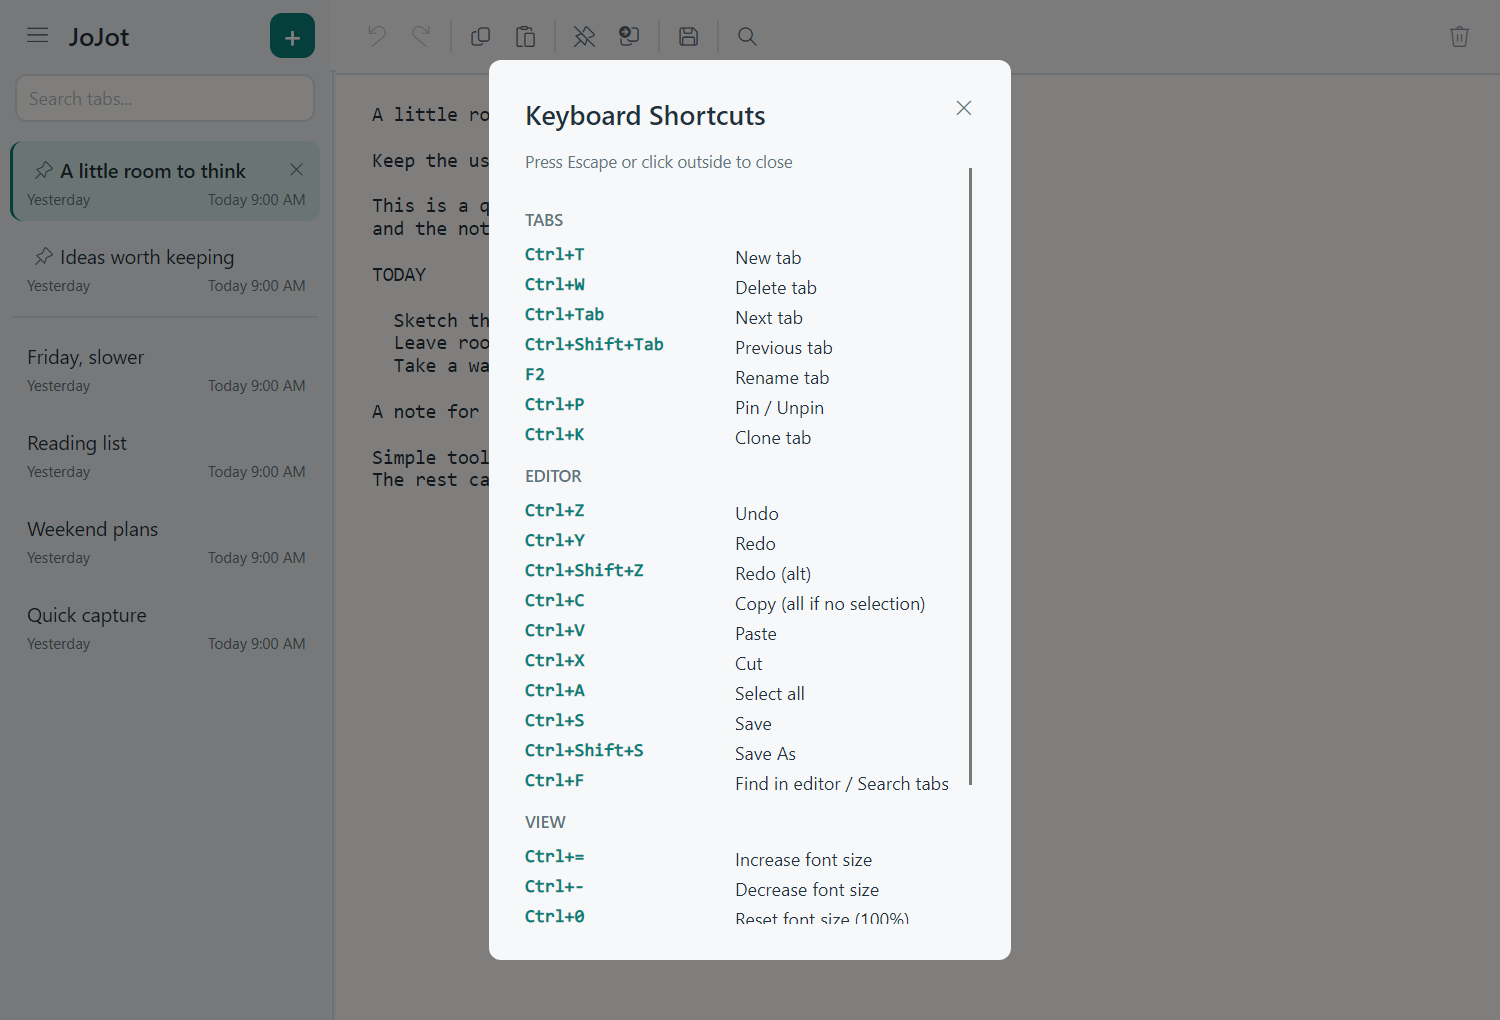
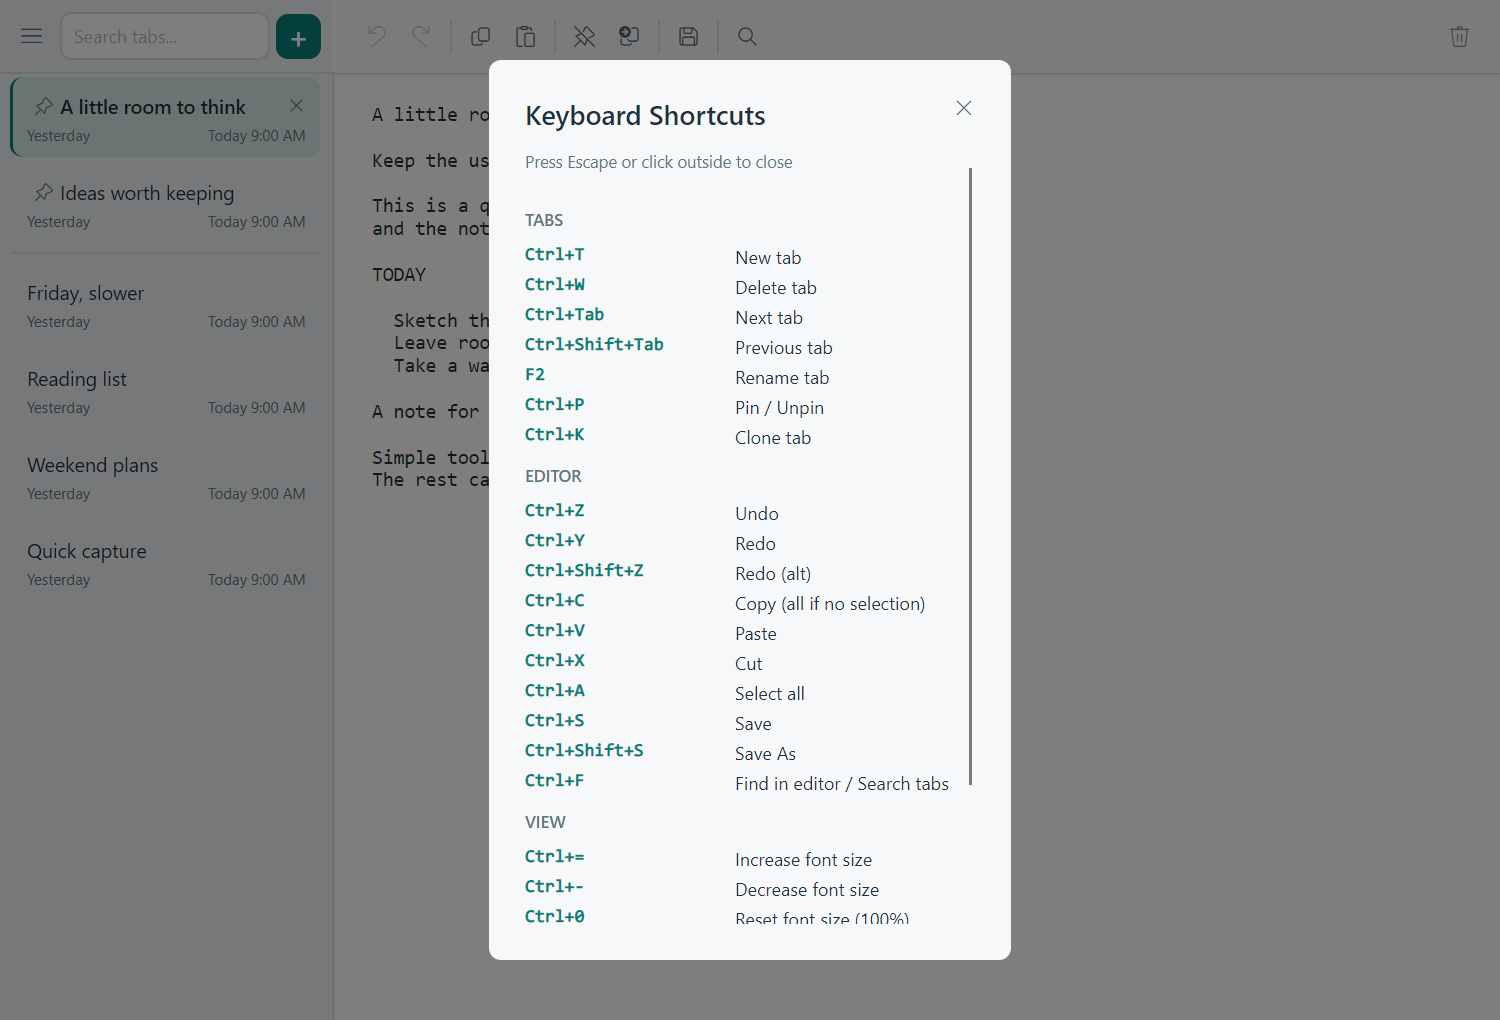
Keep refreshed sidebar controls in one row

diff --git a/experiments/results/visual-refresh/index.html b/experiments/results/visual-refresh/index.html
@@ -6,7 +6,7 @@
 *{box-sizing:border-box}body{font:16px/1.5 system-ui,sans-serif;margin:32px;background:var(--bg);color:var(--fg)}main{max-width:1800px;margin:auto}h1{font-size:30px;letter-spacing:-.6px;margin-bottom:4px}p{color:var(--muted);max-width:850px}.pair{display:grid;grid-template-columns:1fr 1fr;gap:20px;margin:24px 0 44px}figure{margin:0;background:var(--paper);border:1px solid var(--line);border-radius:12px;overflow:hidden}figcaption{padding:12px 16px;font-weight:600}img{display:block;width:100%;height:auto}.compact{display:grid;grid-template-columns:1fr 1fr 1fr;gap:20px;align-items:start}a{color:var(--accent)}@media(max-width:900px){body{margin:16px}.pair,.compact{grid-template-columns:1fr}}
 </style><main>
 <h1>JoJot, with a little more room to think</h1>
-<p>One implemented experiment: warm paper, slate navigation and a teal accent. Actual application renders, using the same six synthetic notes and 1000 × 680 DIP viewport. Stable reference is a managed build; the refreshed captures are from the final NativeAOT preview. Windows scaling: 150%. Native title-bar chrome is outside these client-area captures.</p>
+<p>One implemented experiment: warm paper, slate navigation and a teal accent, with Menu, Search and New kept inline. Actual application renders, using the same six synthetic notes and 1000 × 680 DIP viewport. Stable reference is a managed build; the refreshed captures are from the final NativeAOT preview. Windows scaling: 150%. Native title-bar chrome is outside these client-area captures.</p>
 <div class="pair"><figure><figcaption>Stable · Light</figcaption><img src="before/main-light.png" alt="Stable light theme"></figure><figure><figcaption>Refresh · Light</figcaption><img src="after/main-light.png" alt="Refreshed light theme"></figure></div>
 <div class="pair"><figure><figcaption>Stable · Dark</figcaption><img src="before/main-dark.png" alt="Stable dark theme"></figure><figure><figcaption>Refresh · Dark</figcaption><img src="after/main-dark.png" alt="Refreshed dark theme"></figure></div>
 <div class="pair"><figure><figcaption>Stable · Find</figcaption><img src="before/find.png" alt="Stable Find panel"></figure><figure><figcaption>Refresh · Find</figcaption><img src="after/find.png" alt="Refreshed Find panel"></figure></div>

diff --git a/experiments/JoJot.Avalonia/MainWindow.VisualProbe.cs b/experiments/JoJot.Avalonia/MainWindow.VisualProbe.cs
@@ -126,6 +126,17 @@ public sealed partial class MainWindow
     private async Task CaptureWindowAsync(string directory, string filename)
     {
         await Dispatcher.UIThread.InvokeAsync(() => { }, DispatcherPriority.Background);
+        var sidebarControls = new Control[] { HamburgerButton, SearchBox, AddButton };
+        var sidebarBounds = sidebarControls.Select(control =>
+            new Rect(control.TranslatePoint(default, this)!.Value, control.Bounds.Size)).ToArray();
+        for (var index = 0; index < sidebarBounds.Length; index++)
+        {
+            if (sidebarBounds[index].Width <= 0 || sidebarBounds[index].Bottom > NoteList.TranslatePoint(default, this)!.Value.Y)
+                throw new InvalidOperationException($"Sidebar header is clipped in {filename}.");
+            if (index > 0 && (sidebarBounds[index - 1].Right + 3 > sidebarBounds[index].Left ||
+                Math.Abs(sidebarBounds[index - 1].Center.Y - sidebarBounds[index].Center.Y) > 1))
+                throw new InvalidOperationException($"Sidebar header is not inline in {filename}.");
+        }
         var toolbarButtons = new[] { UndoButton, RedoButton, CopyButton, PasteButton, PinButton,
             CloneButton, SaveButton, SaveAsButton, FindButton, DeleteButton }.Where(button => button.IsVisible).ToArray();
         var rectangles = toolbarButtons.Select(button =>

diff --git a/experiments/JoJot.Avalonia.Tests/MainWindowTests.cs b/experiments/JoJot.Avalonia.Tests/MainWindowTests.cs
@@ -469,6 +469,15 @@ public sealed class MainWindowTests
         var toolbar = Find<Border>(window, "EditorToolbar");
         var splitter = Find<GridSplitter>(window, "TabSplitter");
         var search = Find<TextBox>(window, "SearchBox");
+        var menu = Find<Button>(window, "HamburgerButton");
+        var add = Find<Button>(window, "AddButton");
+        var menuOrigin = menu.TranslatePoint(default, window)!.Value;
+        var searchOrigin = search.TranslatePoint(default, window)!.Value;
+        var addOrigin = add.TranslatePoint(default, window)!.Value;
+        Assert.True(menuOrigin.X + menu.Bounds.Width + 4 <= searchOrigin.X);
+        Assert.True(searchOrigin.X + search.Bounds.Width + 4 <= addOrigin.X);
+        Assert.Equal(menuOrigin.Y + menu.Bounds.Height / 2, searchOrigin.Y + search.Bounds.Height / 2);
+        Assert.Equal(addOrigin.Y + add.Bounds.Height / 2, searchOrigin.Y + search.Bounds.Height / 2);
         var searchBottom = search.TranslatePoint(new Point(0, search.Bounds.Height), window)!.Value.Y;
         Assert.True(searchBottom + 8 <= list.TranslatePoint(default, window)!.Value.Y);
         Assert.Equal(toolbar.Bounds.Height, editor.TranslatePoint(default, window)!.Value.Y);

diff --git a/experiments/results/visual-refresh/README.md b/experiments/results/visual-refresh/README.md
@@ -1,12 +1,12 @@
 # Visual refresh experiment
 
-Branch: `features/avalonia-visual-refresh`, based on stable main `c5d7f77051ff1ff7b6a1aa85fbd0e44422b149c1`. No commit or push performed for this experiment.
+Branch: `features/avalonia-visual-refresh`, based on stable main `c5d7f77051ff1ff7b6a1aa85fbd0e44422b149c1`. The inline-header correction is uncommitted.
 
-Open [the side-by-side gallery](index.html). Run the isolated NativeAOT preview with `P:\projects\JoJot\.local\avalonia-visual-refresh\preview\Try-Visual-Refresh.cmd`.
+Open [the side-by-side gallery](index.html). Run the isolated NativeAOT preview with `P:\projects\JoJot\.local\avalonia-visual-refresh\inline-preview\Try-Visual-Refresh.cmd`.
 
 ## Design
 
-Warm paper for writing, cool slate navigation, restrained teal accents. A distinct JoJot header and prominent add button sit above full-width note search. Selected notes use a rounded surface, accent edge and stronger title weight. Shared controls have consistent rounding and theme-aware selected-state text. The editor gets more breathing room while preserving the existing Consolas/font-size preferences and plain-text content.
+Warm paper for writing, cool slate navigation, restrained teal accents. Menu, Search and New share one compact row, matching the stable layout while retaining the refreshed controls. The redundant JoJot heading is removed. Selected notes use a rounded surface, accent edge and stronger title weight. Shared controls have consistent rounding and theme-aware selected-state text. The editor gets more breathing room while preserving the existing Consolas/font-size preferences and plain-text content.
 
 The default sidebar is 220 DIP (existing saved widths still apply). At narrow window sizes its maximum yields enough room for the editor; the toolbar wraps instead of clipping actions. No schema, storage, file format, shortcuts or workflow handlers changed.
 
@@ -14,7 +14,7 @@ The default sidebar is 220 DIP (existing saved widths still apply). At narrow wi
 
 The gallery compares stable managed and refreshed NativeAOT client-area renders at 1000 × 680 DIP, Windows 150% scaling, same six synthetic notes, same font preferences. Stable includes only the off-screen/nonactivation capture guard; its visual styles/layout are unchanged. The old 180-DIP and refreshed 220-DIP sidebar defaults are intentional design differences. Native title-bar chrome is outside these captures.
 
-The final native probe produced 13 images: light, dark, Find with two real matches, preferences, dark preferences, Help, Cleanup, populated Recovery, Czech main/preferences, and 720/510/320-DIP widths. Images were inspected, including selected-note treatment, text wrapping, theme changes and panel labels. Every capture asserts that visible toolbar buttons remain within the toolbar and do not overlap. The updated layout test asserts real search-to-list clearance and toolbar-to-editor adjacency.
+The final native probe produced 13 images: light, dark, Find with two real matches, preferences, dark preferences, Help, Cleanup, populated Recovery, Czech main/preferences, and 720/510/320-DIP widths. Images were inspected, including selected-note treatment, text wrapping, theme changes and panel labels. Every capture asserts that visible toolbar buttons remain within the toolbar and do not overlap. The updated layout test asserts inline Menu/Search/New centers and spacing, real search-to-list clearance and toolbar-to-editor adjacency. Native captures also verify sidebar controls remain inline and unclipped at every captured width.
 
 The probe runs off-screen at (-12000, -12000), does not activate or appear in the taskbar, and bypasses saved window placement. It refuses empty note fixtures. All capture processes exited normally; no foreground automation was used. RenderTargetBitmap captures actual Avalonia controls, not a design mockup. This does not substitute for human testing of native window chrome or every pointer interaction.
 
@@ -23,10 +23,10 @@ The first fixture used notes assigned to another desktop and produced an empty m
 ## Checks and artifacts
 
 - Release build: zero warnings/errors (`final-build.log`).
-- Full integration suite: **89 passed, zero failures/errors/skips** (`final-tests.xml`). An old test requiring equal sidebar/editor header heights was updated to the intentional separate-header layout contract.
+- Full integration suite: **89 passed, zero failures/errors/skips** (`final-tests.xml`). The layout contract includes the restored inline sidebar controls.
 - NativeAOT publish succeeded; dependency audit reported no vulnerable packages (`dependency-audit.json`). The first sandbox restore could not reach NuGet metadata; final unrestricted publish/audit completed. The two existing Avalonia MicroCom Boolean interop diagnostics remain unchanged.
 - Final native capture exited 0 and preserves every original note ID/content; the temporary recovery note is removed.
[2 lines of base64/hex data omitted]
 - `git diff --check` passed. Preexisting `experiments/README.md`, `.serena/project.yml`, and `.claude/worktrees/` changes were preserved.
 
-The launcher creates a fresh `preview/sessions/<guid>` copy of the synthetic fixture each time. It does not open the installed application's database. The preview is an experiment for review, not an installed release. No startup or scrolling speed claim is made for this visual change.
+The launcher creates a fresh `inline-preview/sessions/<guid>` copy of the synthetic fixture each time. It does not open the installed application's database. The preview is an experiment for review, not an installed release. No startup or scrolling speed claim is made for this visual change.
